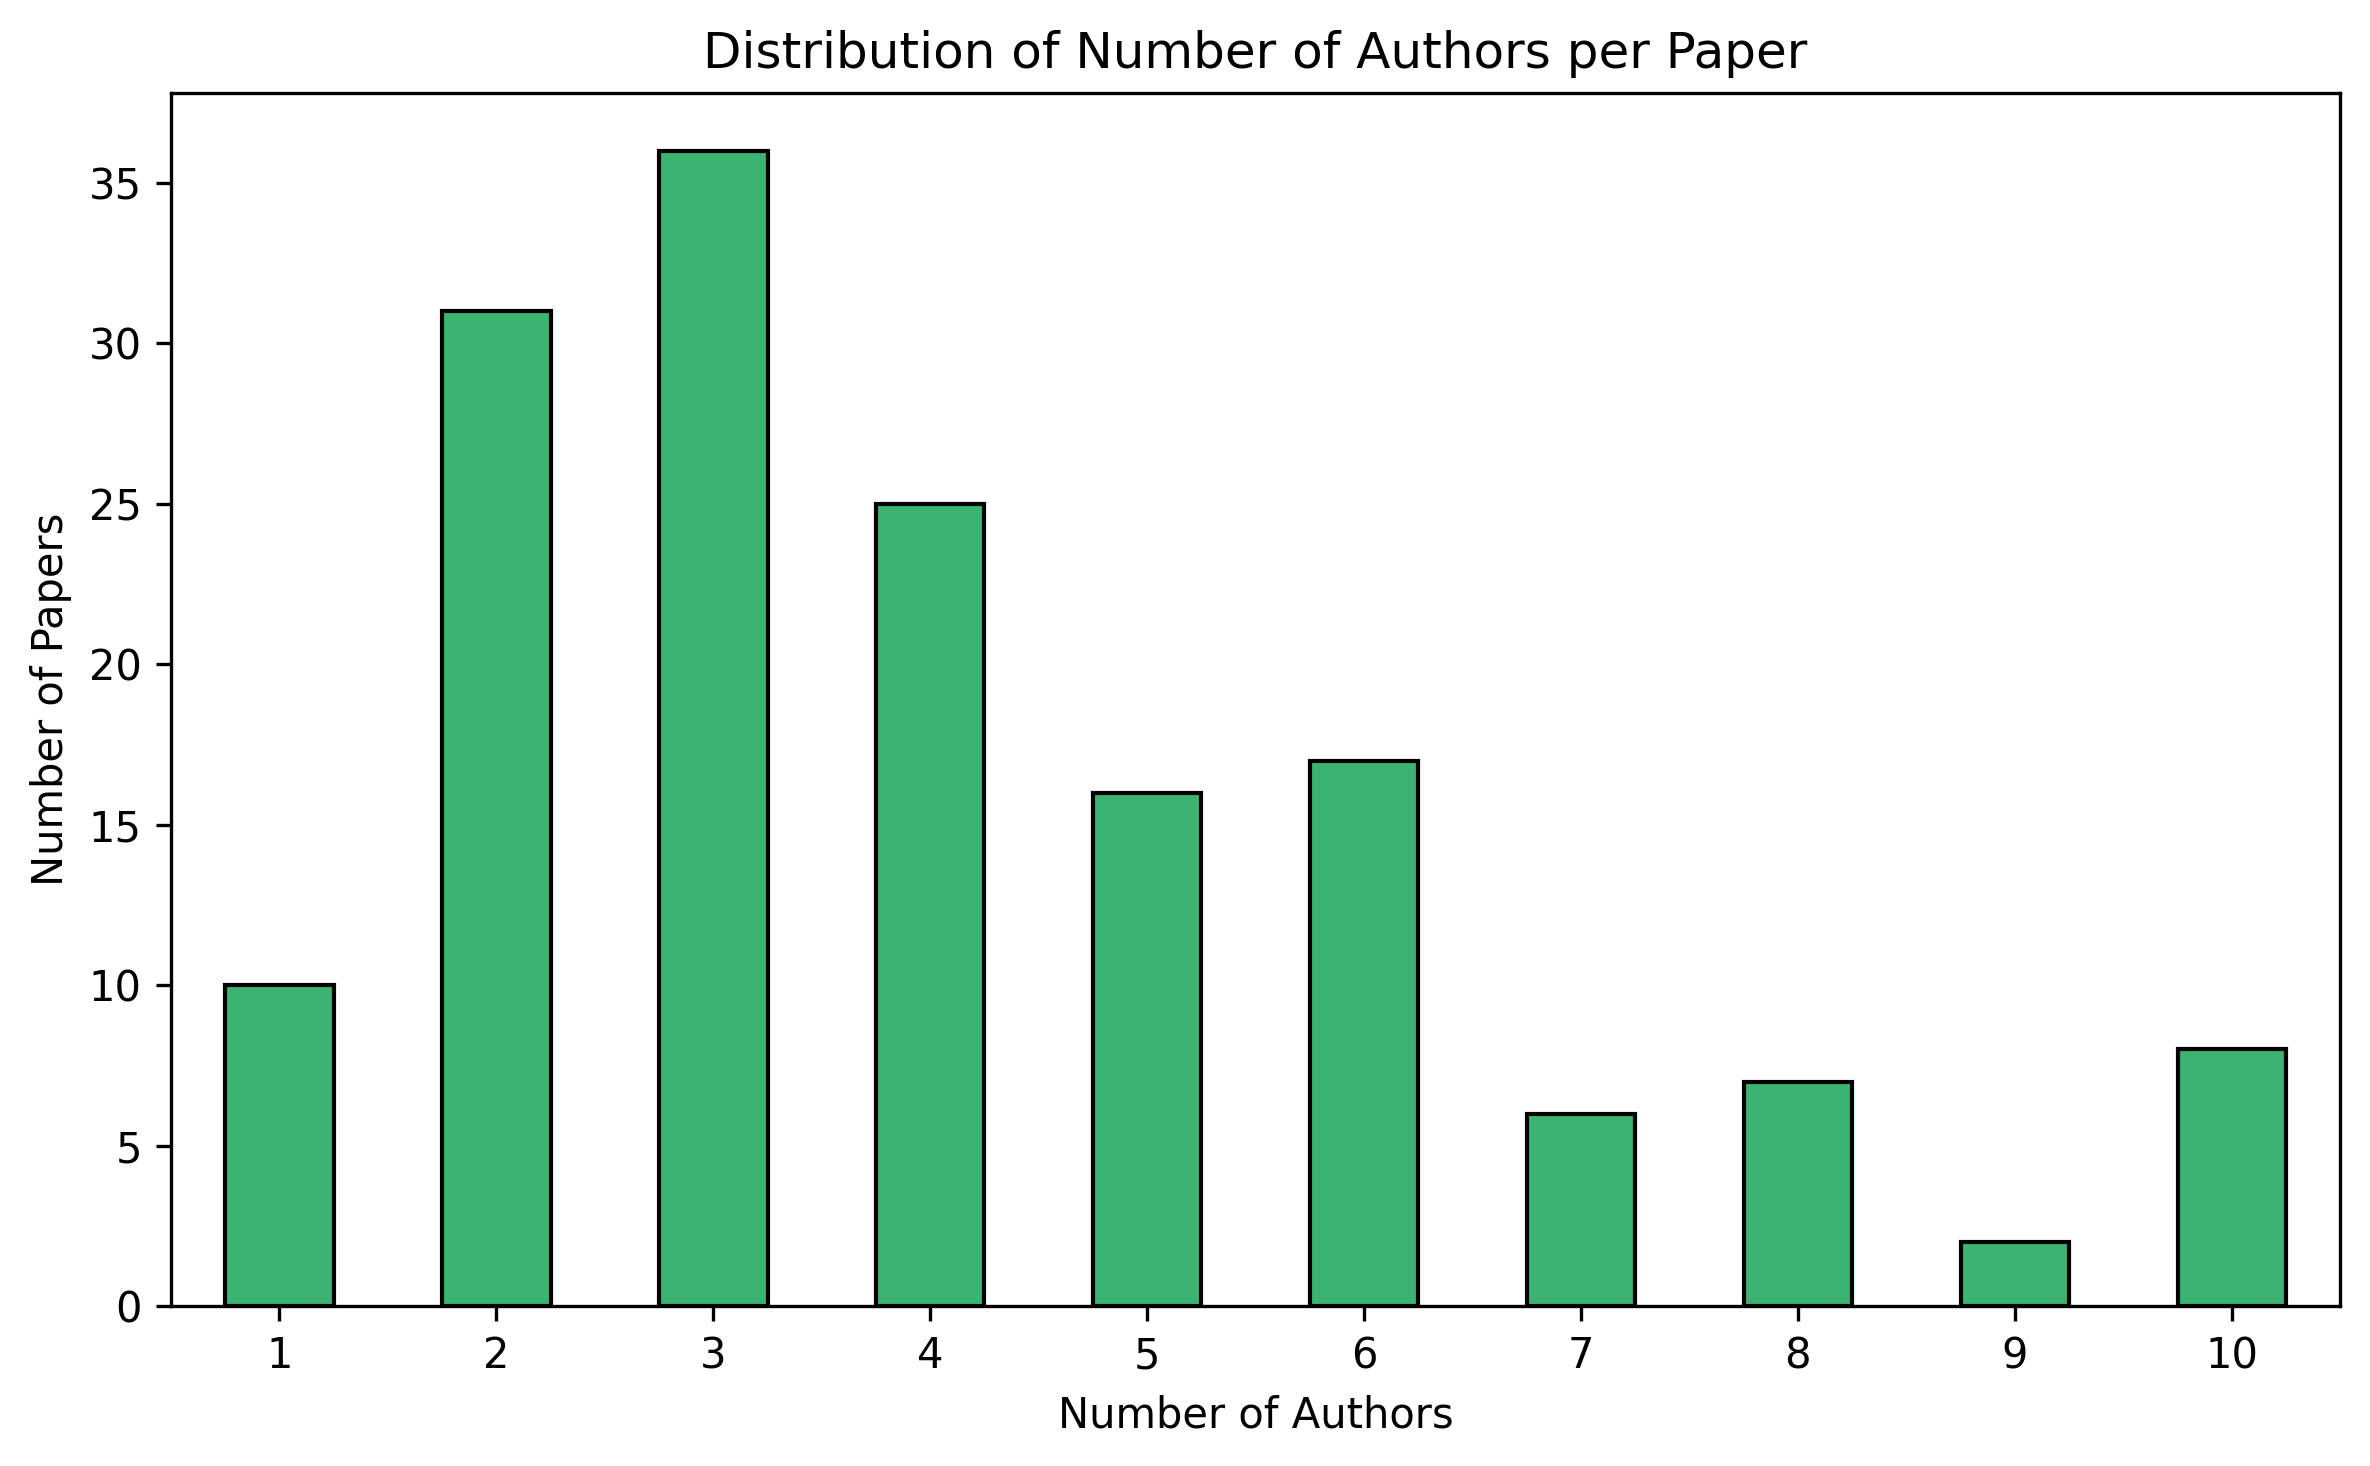
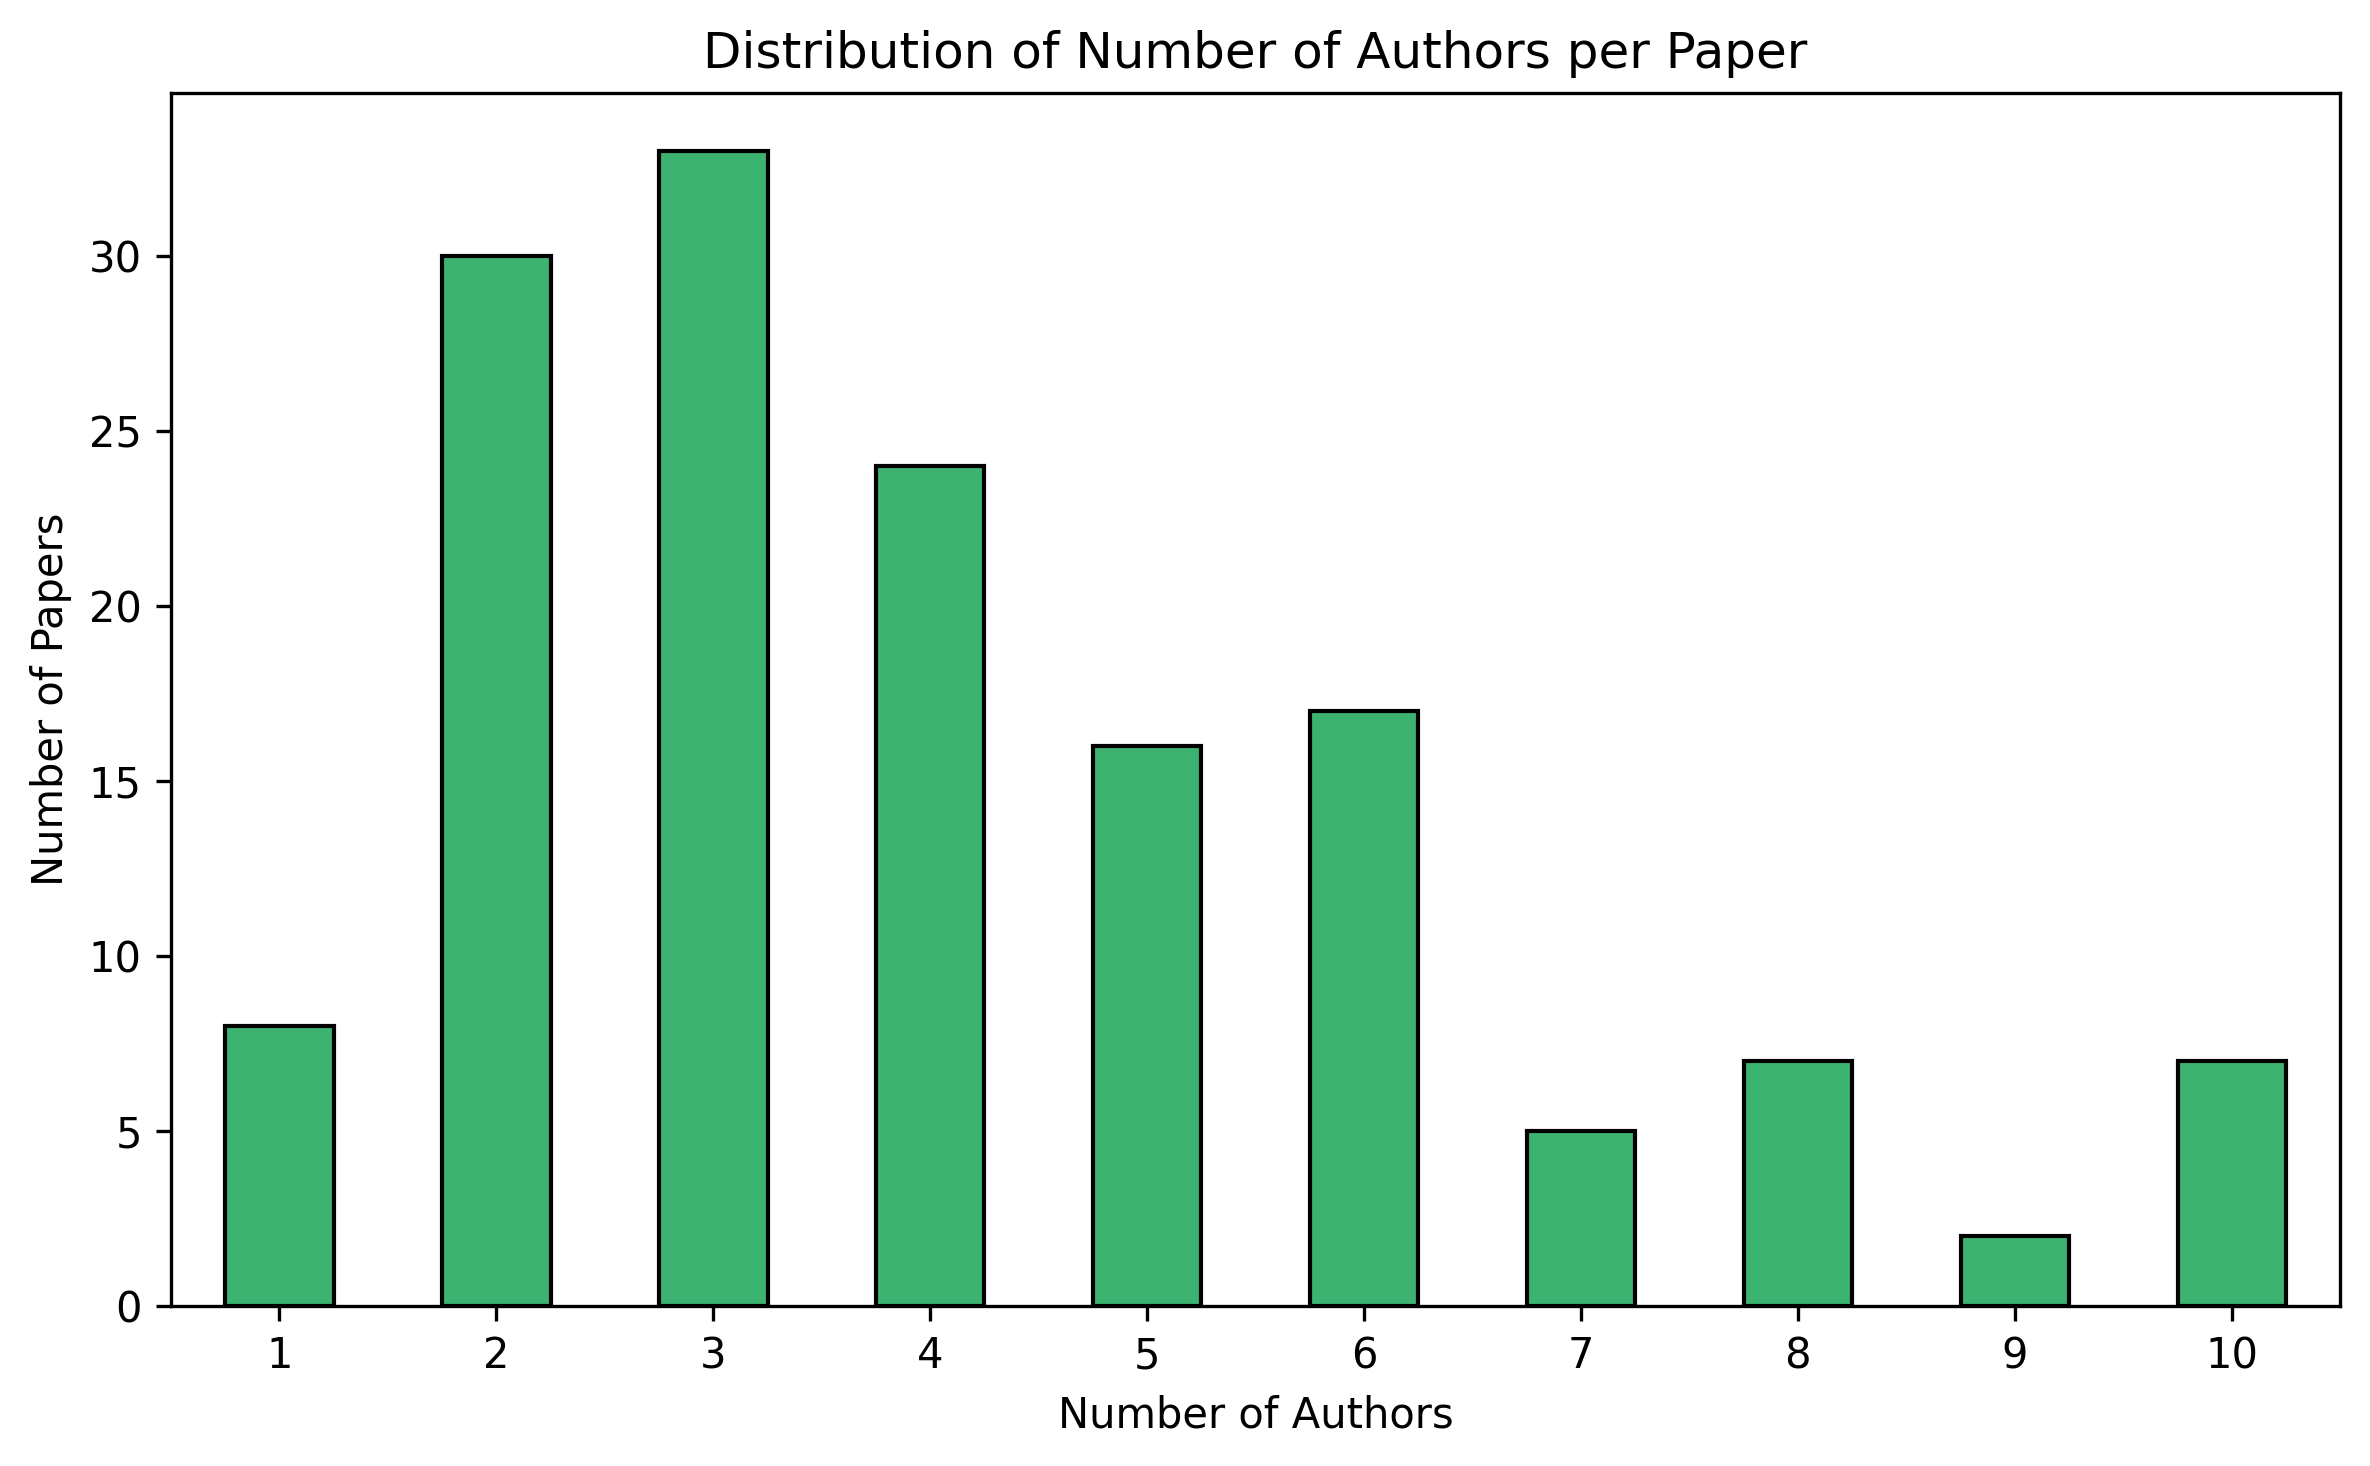
update

diff --git a/graph-generator/number-of-paper-published-per-year/main.py b/graph-generator/number-of-paper-published-per-year/main.py
@@ -5,27 +5,41 @@ import os
 # Load CSV
 df = pd.read_csv("../../tracing-the-evolution-of-word-embeddings-in-nlp.csv")
 
-# Get current working directory (optional - for confirmation)
+# Get current working directory (optional)
 current_dir = os.getcwd()
 print(f"Files will be saved to: {current_dir}")
 
-# --- Matplotlib Export as PNG ---
-papers_per_year_series = df['Year'].value_counts().sort_index()
+# --- Count publications per year ---
+col_name = "Year"
 
-plt.figure(figsize=(8, 5))
-papers_per_year_series.plot(kind='bar', color="skyblue", edgecolor="black")
+# Convert to numeric and drop any NaN values
+df[col_name] = pd.to_numeric(df[col_name], errors='coerce')
+df_clean = df.dropna(subset=[col_name])
+
+# Count papers per year and sort by year
+year_counts = df_clean[col_name].value_counts().sort_index()
+print("Counts of Publications per Year:")
+print(year_counts)
+
+# --- Plot ---
+plt.figure(figsize=(12, 6))
+year_counts.plot(kind='bar', color="cornflowerblue", edgecolor="black")
 plt.xlabel("Year")
 plt.ylabel("Number of Papers")
-plt.title("Number of Papers per Year")
-plt.xticks(rotation=45)  # Rotate x-axis labels for better readability
+plt.title("Distribution of Paper Publications per Year")
+plt.xticks(rotation=45)
 plt.tight_layout()
 
-# Save PNG to current folder
-png_filename = "papers_per_year.png"
-plt.savefig(png_filename, dpi=300, bbox_inches='tight')
+# Save PNG
+png_filename = "publications_per_year.png"
+plt.savefig(png_filename, dpi=300, bbox_inches="tight")
 print(f"PNG chart saved as: {png_filename}")
 
-# Show the plot
+# Show plot
 plt.show()
 
-print("Chart successfully saved to the current directory!")
+# Optional: Print summary statistics
+print(f"\nTotal papers: {len(df_clean)}")
+print(f"Year range: {int(year_counts.index.min())} - {int(year_counts.index.max())}")
+print(f"Average papers per year: {year_counts.mean():.2f}")
+print(f"Peak year: {int(year_counts.idxmax())} with {year_counts.max()} papers")

diff --git a/graph-generator/embedding-method-category-frequency/main.py b/graph-generator/embedding-method-category-frequency/main.py
@@ -11,6 +11,7 @@ print(f"Files will be saved to: {current_dir}")
 
 # --- Matplotlib Export as PNG (Category frequencies) ---
 category_series = df['Category'].value_counts()
+print(category_series)
 
 plt.figure(figsize=(8, 5))
 category_series.plot(kind='bar', color="mediumseagreen", edgecolor="black")

diff --git a/graph-generator/distribution-of-number-of-authors/main.py b/graph-generator/distribution-of-number-of-authors/main.py
@@ -11,6 +11,7 @@ print(f"Files will be saved to: {current_dir}")
 
 # --- Distribution of Number of Authors ---
 author_dist = df['Number_Authors'].value_counts().sort_index()
+print(author_dist)
 
 plt.figure(figsize=(8, 5))
 author_dist.plot(kind='bar', color="mediumseagreen", edgecolor="black")
